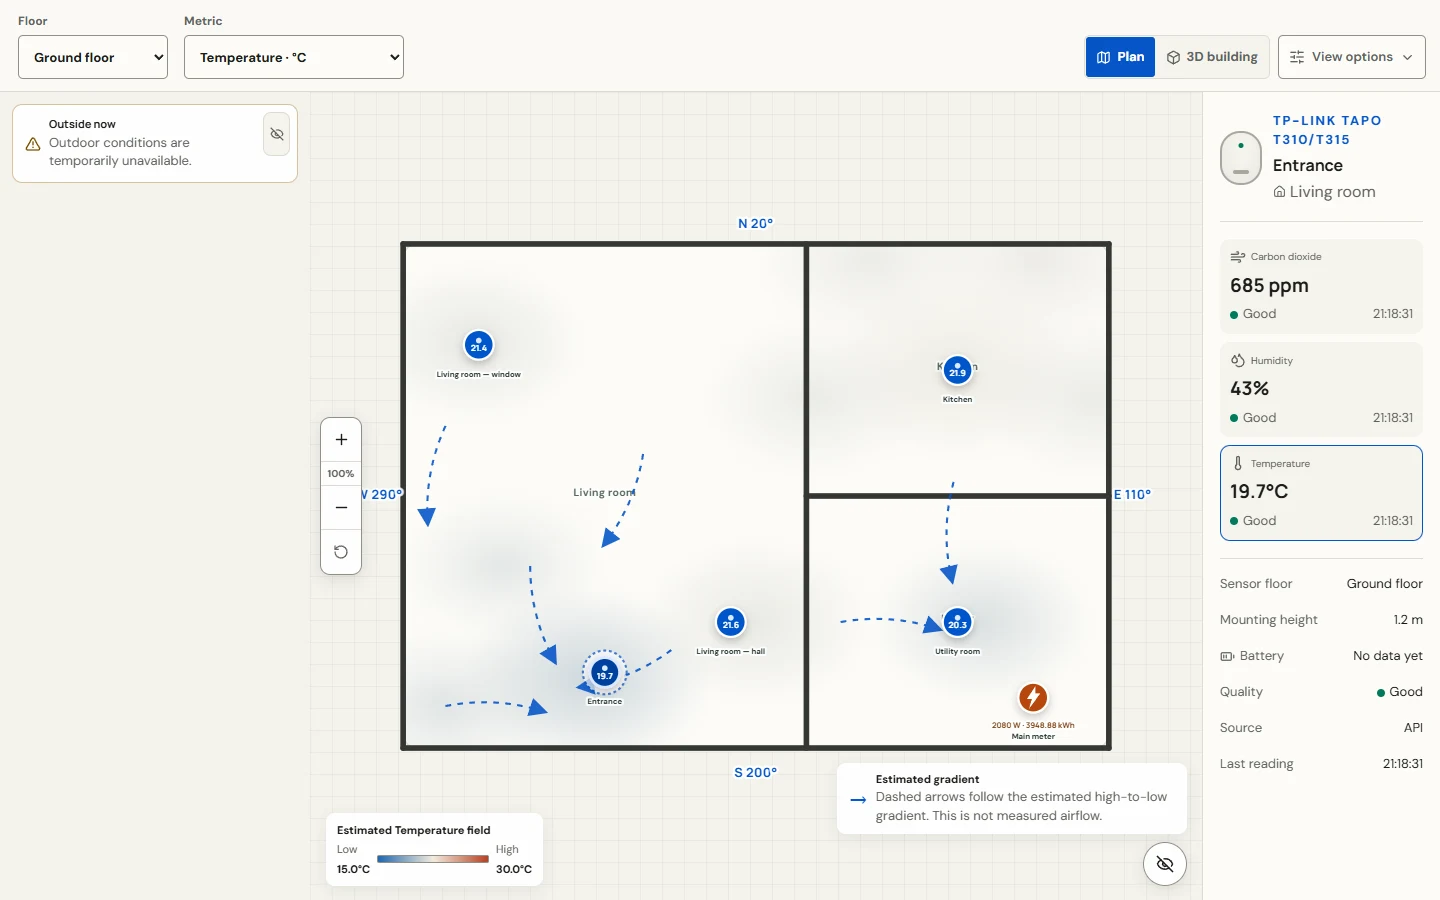
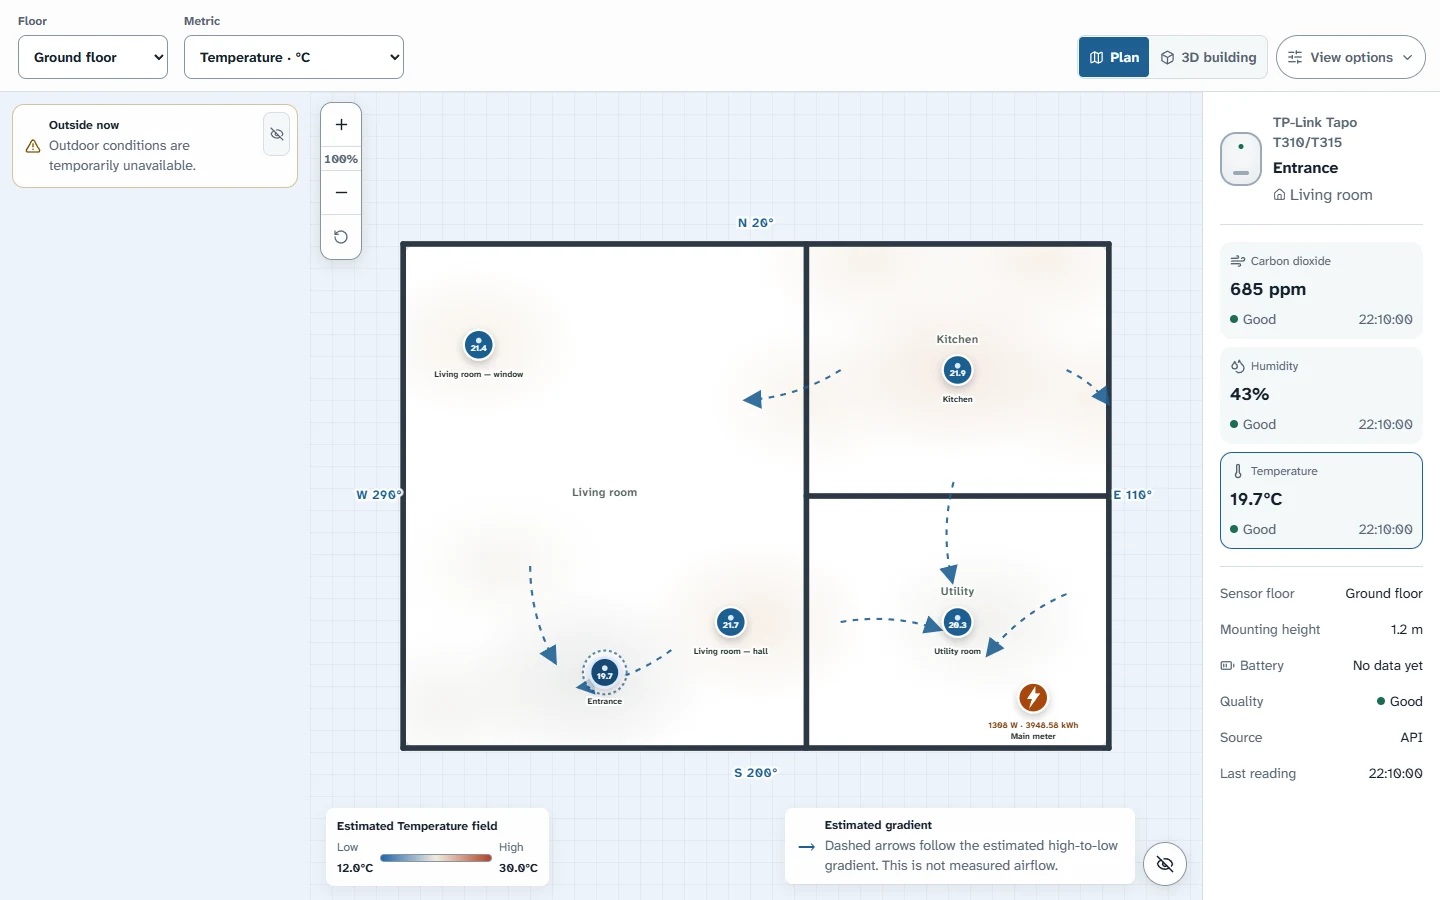
docs: README screenshots in the Kaamos look (0.56.1)
Capture all twelve README and Getting started screenshots again on the
Kaamos branch from the synthetic sample home, with the same file names
and sizes: Home, the 2D plan, the 3D building, Data & analytics,
Electricity and the phone Home page, each in light and dark. The Home
alt text now matches the frame (rooms differ by 3.6 °C).

Docs-only patch bump to 0.56.1, above main and every open PR.

diff --git a/packages/contracts/src/measurement-analytics.ts b/packages/contracts/src/measurement-analytics.ts
@@ -55,7 +55,7 @@ export type AggregationSemantic =
   | "custom";
 
 /** Product release version. Pre-1.0 minor releases may contain breaking changes. */
-export const SYSTEM_VERSION = "0.54.0" as const;
+export const SYSTEM_VERSION = "0.56.1" as const;
 
 export interface MeasurementDefinition {
   id: Metric;

diff --git a/apps/api/src/version.ts b/apps/api/src/version.ts
@@ -1,2 +1,2 @@
 /** Compiled API runtime version. Kept in lockstep with manifests/contracts by version:check. */
-export const SYSTEM_VERSION = "0.54.0" as const;
+export const SYSTEM_VERSION = "0.56.1" as const;

diff --git a/README.md b/README.md
@@ -62,7 +62,7 @@ local workspace; Guests can be limited to selected Properties, Homes and areas.
     <td width="50%">
       <picture>
         <source media="(prefers-color-scheme: dark)" srcset="docs/images/screenshots/home-dark.webp">
-        <img src="docs/images/screenshots/home-light.webp" alt="The Home page: Home Pulse says the home is worth watching because rooms differ by 3.5 °C, with the average temperature and the number of sensors reporting.">
+        <img src="docs/images/screenshots/home-light.webp" alt="The Home page: Home Pulse says the home is worth watching because rooms differ by 3.6 °C, with the average temperature and the number of sensors reporting.">
       </picture>
       <p><b>Home.</b> Home Pulse says whether anything needs attention and why, and what the rooms feel like right now.</p>
     </td>

diff --git a/CHANGELOG.md b/CHANGELOG.md
@@ -2,6 +2,11 @@
 
 All notable Stugu releases are recorded here.
 
+## 0.56.1
+
+- The README and Getting started screenshots show the Kaamos look: the night-blue navigation, snow and night pages, the lantern on the current page, and Atkinson Hyperlegible Next. All twelve images (Home, the 2D plan, the 3D building, Data & analytics, Electricity and the phone Home page, each in light and dark) were captured again from the same synthetic sample home, at the same sizes and file names.
+- Upgrade impact: none. Only documentation changes; the API, web app, database, configuration, Compose and host trust are unchanged.
+
 ## 0.54.0
 
 A new look: Kaamos, the polar night.

diff --git a/docs/versioning.md b/docs/versioning.md
@@ -1,7 +1,7 @@
 # Versioning and pre-1.0 change policy
 
 Stugu uses Semantic Versioning for the product release shown by the local API,
-web/API packages, shared contracts, and Apple app metadata. The current release is `0.54.0`.
+web/API packages, shared contracts, and Apple app metadata. The current release is `0.56.1`.
 
 Before `1.0.0`, the data model, API, configuration, and UI may change in
 backwards-incompatible ways while the architecture is still being established.
